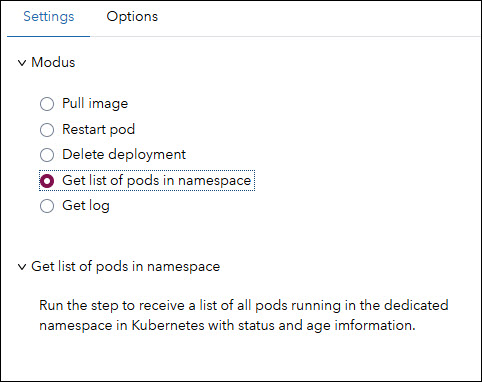
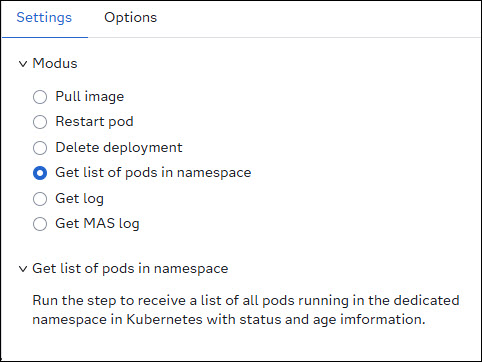
init

diff --git a/README.md b/README.md
@@ -295,14 +295,30 @@ The name of the pod for wich you want the log information.<br>
 You don't need to type in the complete pod name, partions of it will work. E.g.: if the pod name is 'scr-mypod-7b7c55d84b-2fm87' you can just tyep 'mypod'.
 
 * **Show rows in log**
-This indecates how many rows on the log will be shows.
+This indecates how many rows from the log will be shown.
     * All rows<br>
     Shows the complete log
     * Top rows<br>
     Show the top number of rows as set in field **Number of rows**
     * Bottom rows<br>
     Show last number of rows as set in field **Number of rows**
-<br><br>
+
+#### Get MAS log
+![](./images/get-MAS-log.jpg)
+
+* **Show rows in log**
+This indecates how many rows from the log will be shown.
+    * All rows<br>
+    Shows the complete log
+    * Top rows<br>
+    Show the top number of rows as set in field **Number of rows**
+    * Bottom rows<br>
+    Show last number of rows as set in field **Number of rows**
+
+    > By default it will show the last 30 rows in the log.
+
+<br>
+
 ---
 ### Options
 ![](./images/options.jpg)
